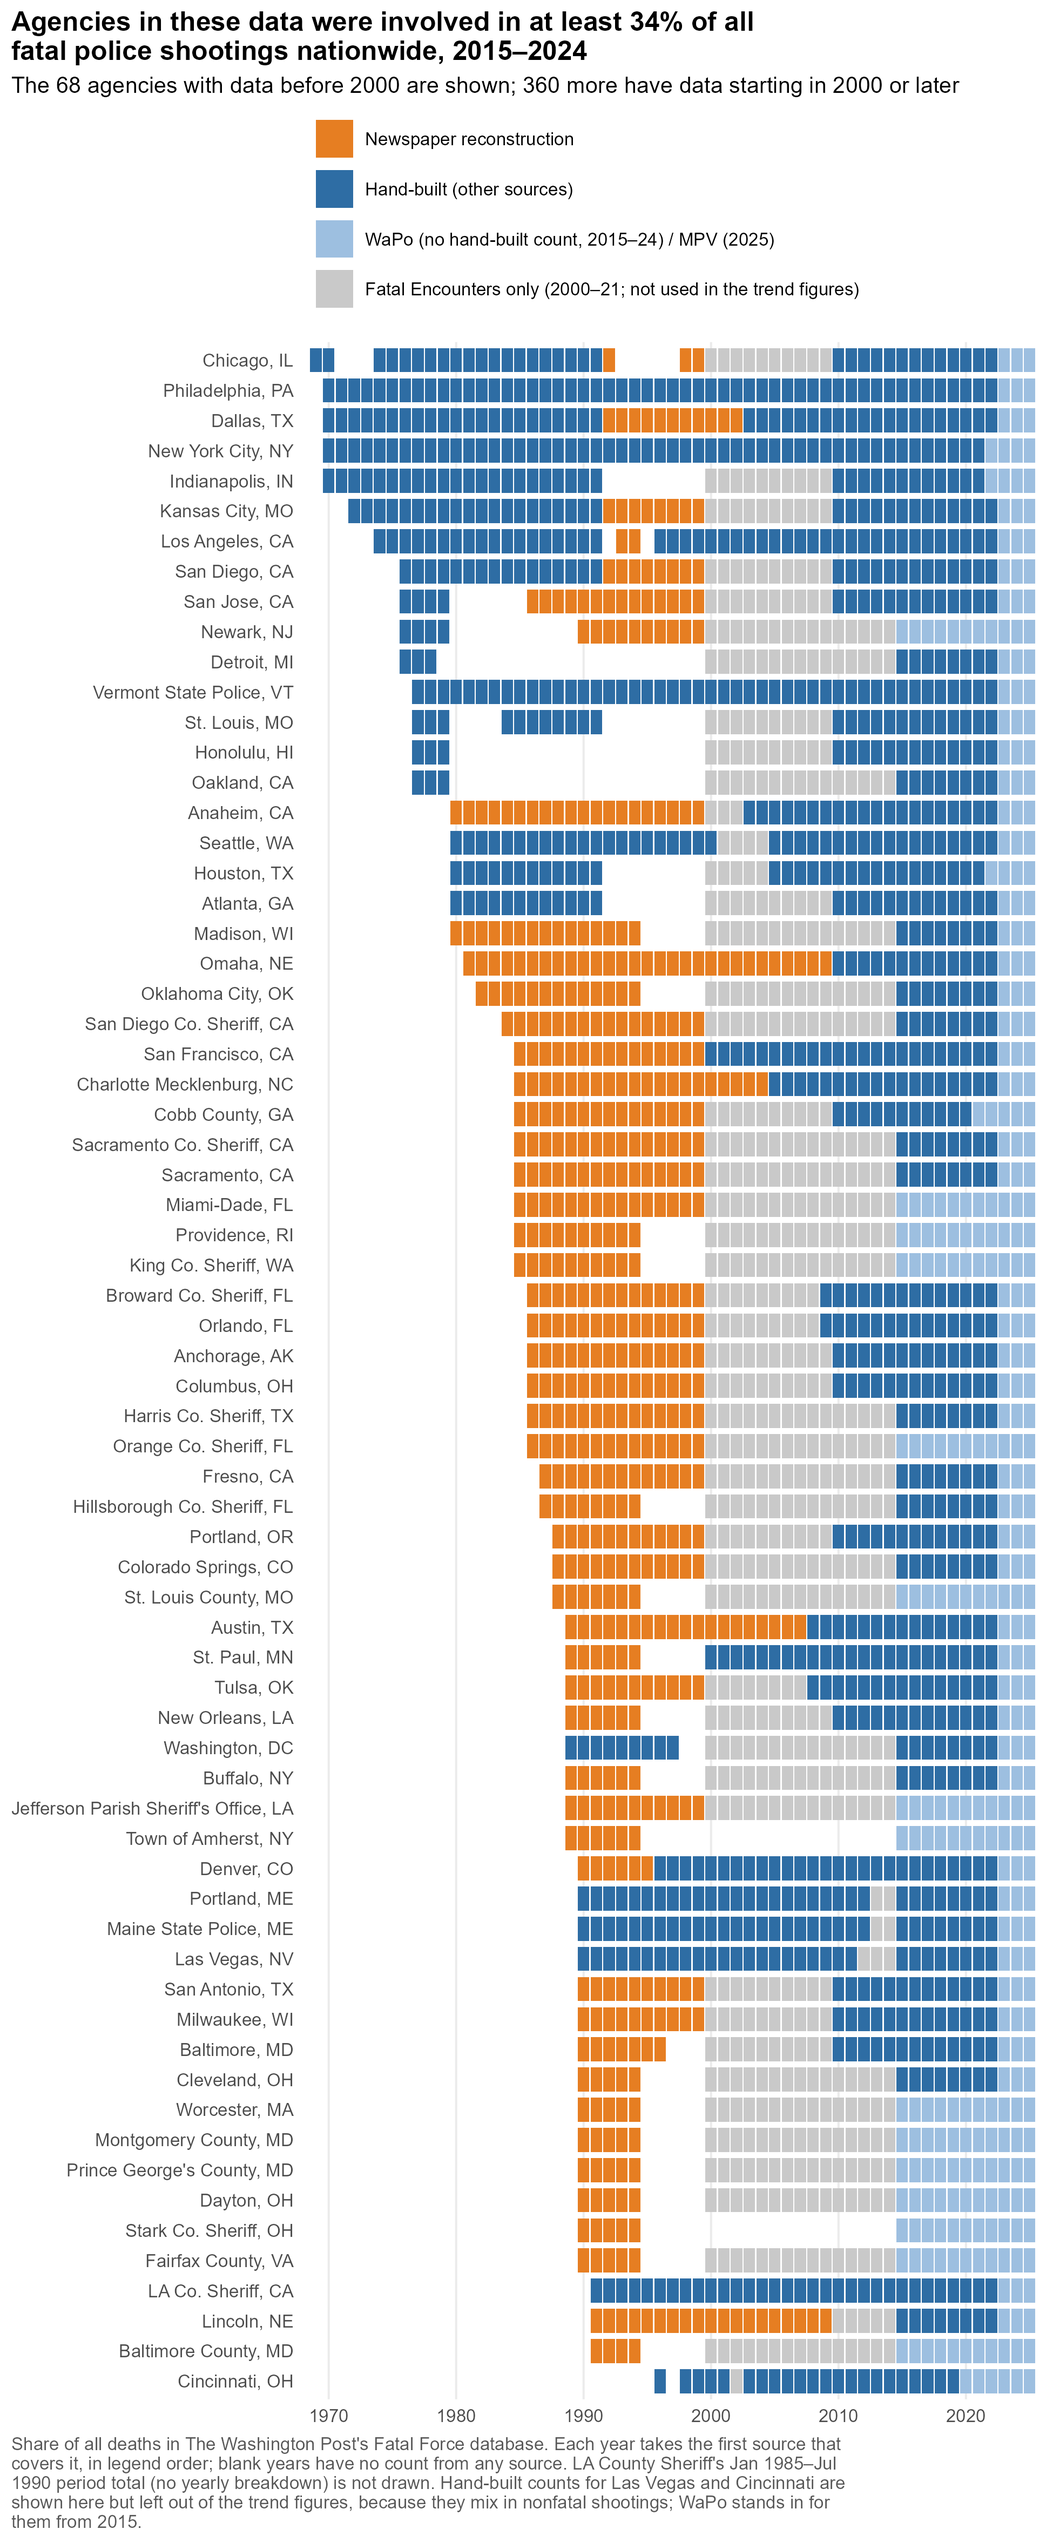
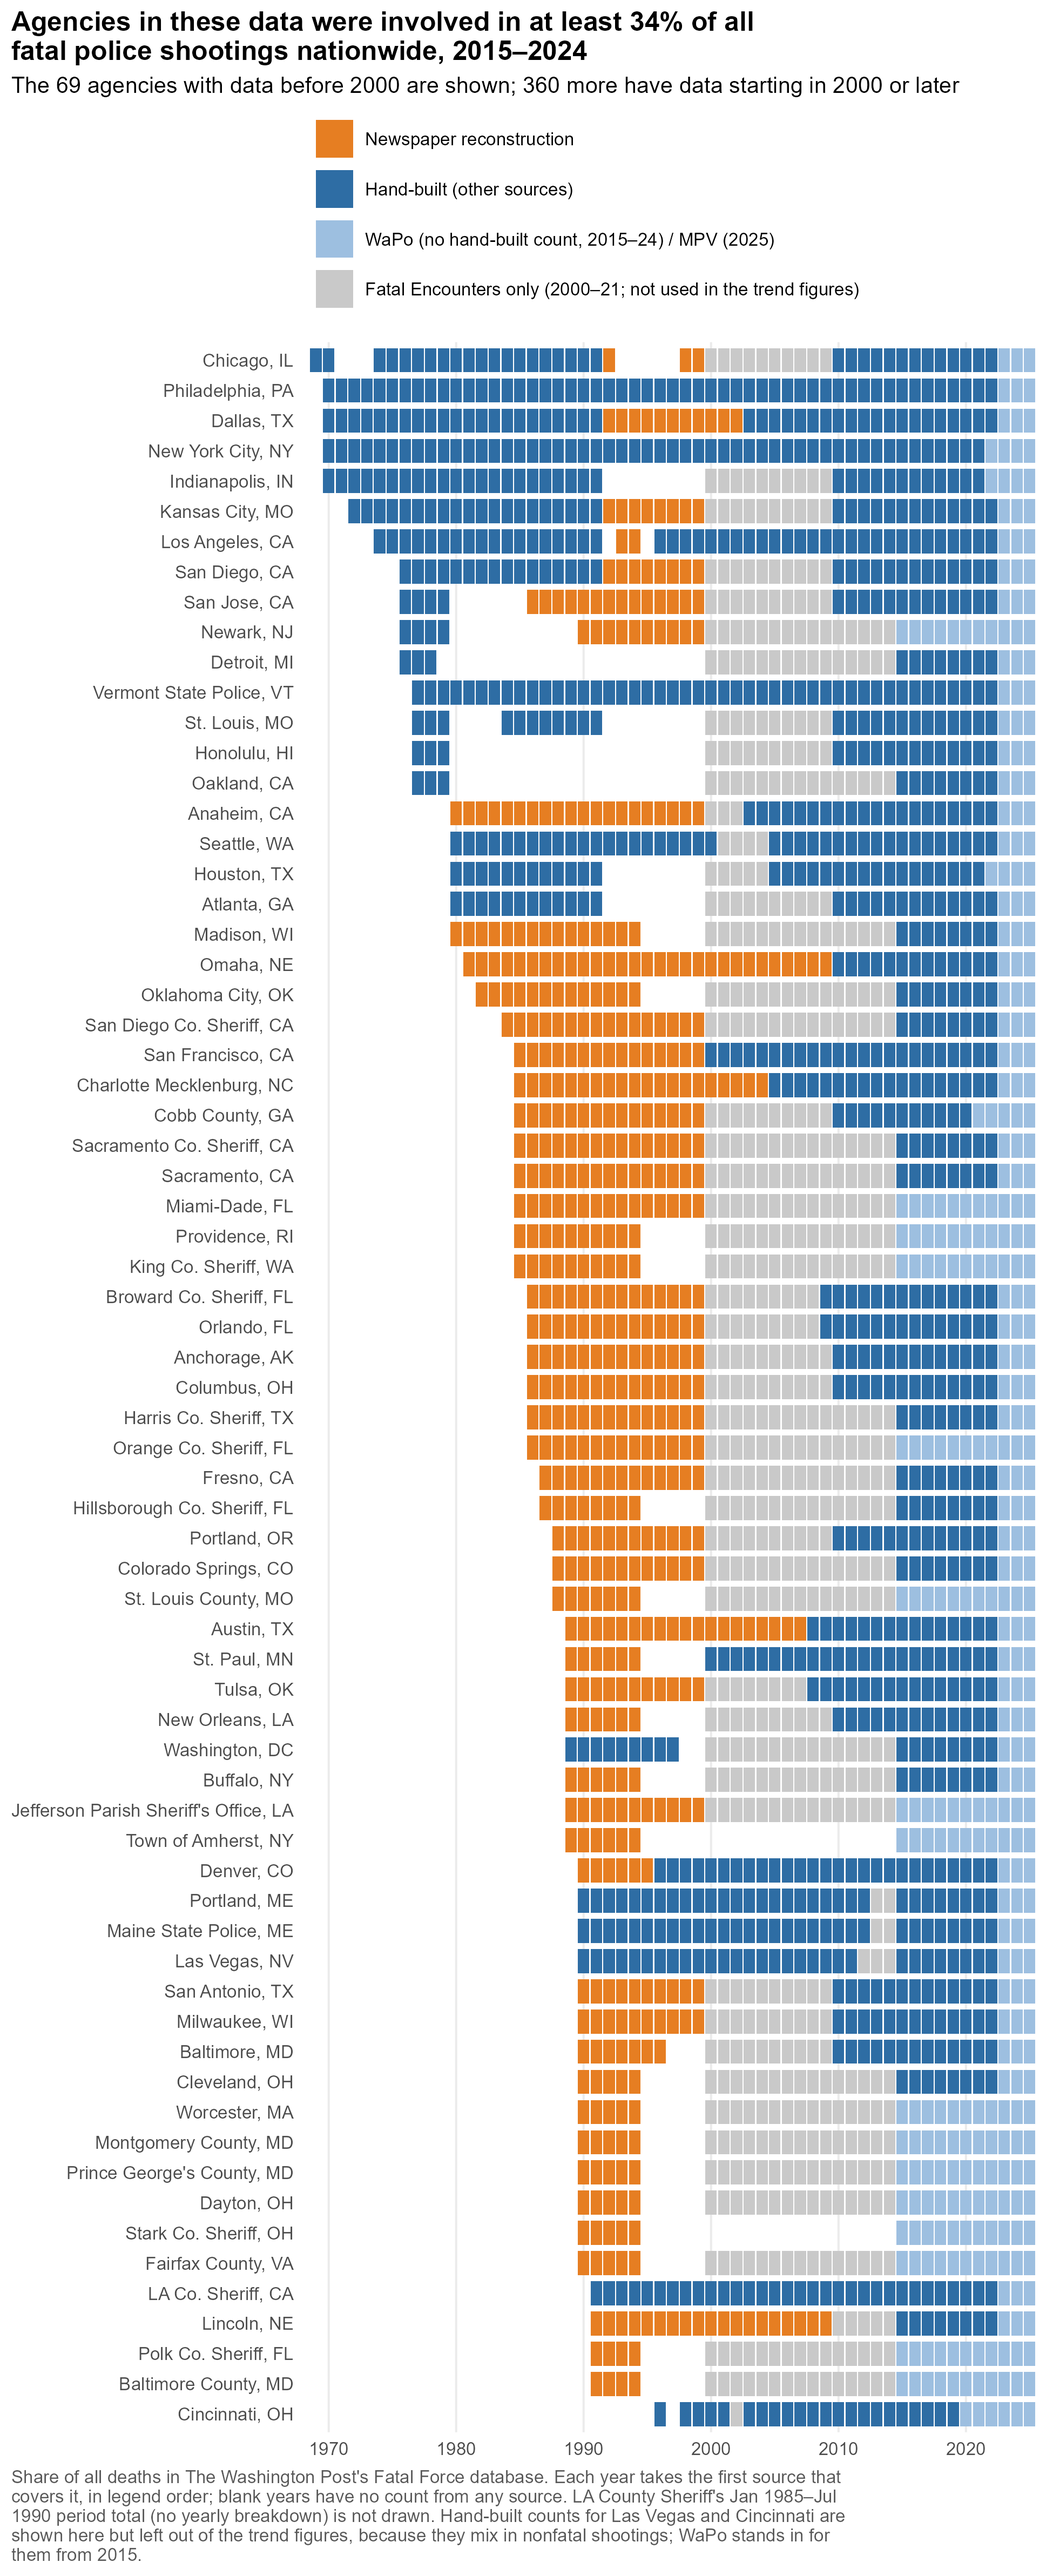
Add Polk County SO (FL) Aug 1990-94 to n_nix (Tampa Tribune reconstruction) (#68)
Sampled agency (South 100-250k). New slug polk_county_fl (FL05300).
1991-94 = 0, 2, 0, 1, plus Aug 14 - Dec 31, 1990 = 0 as a period total,
rebuilt case by case from The Tampa Tribune (in NewsBank from Aug 14,
1990; the Lakeland Ledger only from Nov 1994): Timmy Bible and Tommie
Calvin Williams (1992), and Ponciano Rabadan (1994, a deputy's sniper
shot first reported as a suicide). SHR files 0 in 1992-94 and misses all
three. Recall check 2001-06: 5 of 5 FE gunshot deaths.

No source shows a Polk deputy killing in Jan-Aug 1990, but the only
other paper (St. Petersburg Times, 3 of 3 on the later cases) is under
the 50-hit rule, so per JN the partial year stands, as for Baltimore
County: about 4.4 exposure-years before 1995, short of the main
comparison. Headline unchanged (59 agencies, 0.757).

diff --git a/README.md b/README.md
@@ -26,7 +26,7 @@ Are police killing more people now than in decades past? National data can't ans
 
 **How the trend is estimated.** The solid line comes from a Poisson model with agency fixed effects, fit to all 422 hand-built agencies. It compares each agency with itself, so agencies entering or leaving the data don't move the line. Most hand-built counts for 2015 onward were taken from WaPo in the first place (see [Background](#background)), so WaPo fills 2015–24 wherever an agency has no hand-built count; the hand-built series end in 2022. MPV on-duty counts fill 2025 for series that reach 2024. Two hand-built series are left out because they mix in nonfatal shootings, Las Vegas and Cincinnati; WaPo stands in for both from 2015.
 
-**How far back it reaches.** Before 2000, the solid line rests on only 4–61 departments, mostly large cities. It describes big cities, not the country. The [coverage figure](#coverage-figure) below shows exactly which agency-years each source covers.
+**How far back it reaches.** Before 2000, the solid line rests on only 4–62 departments, mostly large cities. It describes big cities, not the country. The [coverage figure](#coverage-figure) below shows exactly which agency-years each source covers.
 
 **What it shows.** The headline compares one fixed set of agencies: the 59 with at least five years of data both before 1995 and since 2015, shown as the dashed line. In those agencies, fatal police shootings since 2015 run 24% below their 1970–1994 level (ratio 0.76, 95% CI 0.55–1.04). Two more agencies, the Stark County (OH) Sheriff's Office and the Amherst (NY) Police Department, have enough years in both eras but no deaths in either, so they add no information to the ratio and are set aside.
 
@@ -44,7 +44,7 @@ The reconstructions are floors, because a search can miss deaths but can't inven
 
 ![Agencies with data before 2000](output/figures/coverage_tiles.png)
 
-**Reach.** The 68 agencies above carry the long-run record back before 2000. Each year shows the first source that covers it: newspaper reconstruction (orange), other hand-built sources (dark blue), WaPo or MPV where there is no hand-built count (light blue), and Fatal Encounters alone (grey; FE is not used in the trend figures). Blank years are true gaps. Overall, the hand-built agencies were involved in at least 33% of everyone shot and killed by police in WaPo's data, 2015–2024 ("at least" because deaths are matched through each WaPo agency's primary ORI, so some matches are missed).
+**Reach.** The 69 agencies above carry the long-run record back before 2000. Each year shows the first source that covers it: newspaper reconstruction (orange), other hand-built sources (dark blue), WaPo or MPV where there is no hand-built count (light blue), and Fatal Encounters alone (grey; FE is not used in the trend figures). Blank years are true gaps. Overall, the hand-built agencies were involved in at least 34% of everyone shot and killed by police in WaPo's data, 2015–2024 ("at least" because deaths are matched through each WaPo agency's primary ORI, so some matches are missed).
 
 Numbers in this section come from [`trend_summary.csv`](output/tables/trend_summary.csv), [`trend_index.csv`](output/tables/trend_index.csv), [`then_vs_now.csv`](output/tables/then_vs_now.csv), [`era_ratio_sensitivity.csv`](output/tables/era_ratio_sensitivity.csv), and [`coverage_share.csv`](output/tables/coverage_share.csv), all written by [`scripts/07_figures_trends.R`](scripts/07_figures_trends.R).
 
@@ -83,7 +83,7 @@ The four largest local departments show how the series line up, and SHR's false 
 | 1969 | 1 (Chicago) | — | — | — | — |
 | 1970s | 4–15 | — | — | — | 1,760–1,929 (1976+) |
 | 1980s | 14–42 | — | — | — | 1,695–1,960 |
-| 1990s | 40–64 | — | — | — | 1,459–1,818 |
+| 1990s | 40–65 | — | — | — | 1,459–1,818 |
 | 2000s | 114–172 | — | 2,967 | — | 1,524–1,721 |
 | 2010s | 361–369 | 3,647 (2015+) | 2,967 | 4,622 (2013+) | 1,584–1,841 |
 | 2020s | 225–368 (through 2022) | 3,647 (through 2024) | 2,967 (through 2021) | 4,622 (through 2025) | 1,864–2,098 (through 2024) |
@@ -212,6 +212,7 @@ The method, a note on every agency, and the checks against each paper's own coun
 | Providence PD (RI) | *Providence Journal* | 1985–1994 | 4 | 3 |
 | Amherst Town PD (NY) | *The Buffalo News* | 1989–1994 | 0 | 0 |
 | Buffalo PD (NY) | *The Buffalo News* | 1989–1994 | 4 | 3 |
+| Polk County SO (FL) | *The Tampa Tribune* | Aug 1990 – 1994 | 3 | 0 |
 | LA County Sheriff (period total) | *Daily News of Los Angeles* (Oct. 7, 1990 study) | Jan 1985 – Jul 1990 | 75 | 42 (1985–90) |
 
 

diff --git a/data/historical/README.md b/data/historical/README.md
@@ -71,4 +71,5 @@ The SHR column is the FBI's count of people killed by the agency's officers with
 | Providence PD (RI) | *Providence Journal* | 1985–1994 | 4 | 3 | The *Journal* is full text in NewsBank from 1982. Rebuilt case by case: Napolitano (1985), Stockwell (1993), and two in 1994, Corey Fields (killed after he shot Patrolman Steven Shaw) and Favaloro (a SWAT shootout in a joint drug sting). A 1993 *Journal* story listing that year's three fatal police shootings in Rhode Island confirms one in Providence. Matches SHR in 9 of 10 years; SHR misses Stockwell. SHR files the department as RI00409, while WaPo and this panel use RI00400, so the panel's SHR column is blank for Providence. Recall check (2000–14): all 4 Fatal Encounters gunshot deaths |
 | Amherst Town PD (NY) | *The Buffalo News* | 1989–1994 | 0 | 0 | The *Buffalo News* is in NewsBank from January 1989. No fatal shootings by Amherst officers found, though the paper reported the department's nonfatal shootings (two bank-robbery suspects wounded in 1990, a theft suspect in 1991). Leaves out a 1991 death in custody. Recall can't be measured: Fatal Encounters, WaPo, MPV and SHR list no Amherst police killings in any year, so the agency has no deaths in either era and is set aside from the ratio. The paper was checked on other agencies instead: it reported all 11 Fatal Encounters police shooting deaths in Erie County, 2003–12. SHR files 0 in 1991–94 and nothing for 1989–90 |
 | Buffalo PD (NY) | *The Buffalo News* | 1989–1994 | 4 | 3 | The *Buffalo News* is in NewsBank from January 1989. Rebuilt case by case: Brantley (shot in 1989, died in 1990; counted in the year she was shot), Strickland (1990), Mills (1991) and Johnson (1992, an accidental discharge the grand jury cleared). None found in 1993–94. SHR's 1989 count includes a killing by an off-duty officer, left out here, and SHR files 0 every year from 1991 to 2014, even when Fatal Encounters lists Buffalo deaths, so it misses Mills and Johnson. Recall check (2003–12): all 9 Fatal Encounters gunshot deaths |
+| Polk County SO (FL) | *The Tampa Tribune* | Aug 1990–1994 | 3 | 0 | The *Tribune* enters NewsBank on August 14, 1990 (the Lakeland *Ledger* only in November 1994), so August–December 1990 is a period total and Polk falls short of five years before 1995, like Baltimore County. Rebuilt case by case: Timmy Bible and Tommie Calvin Williams (1992) and Ponciano Rabadan (1994, a sniper shot first reported as a suicide). SHR files 0 in 1992–94 and misses all three. Recall check (2001–06): all 5 Fatal Encounters gunshot deaths |
 | LA County Sheriff (period total) | *Daily News of Los Angeles* | Jan 1985 – Jul 1990 | 75 | 42 (1985–90) | Not yearly counts: a 1990 *Daily News* study of all 202 on-duty deputy shootings found 75 deaths. It enters only the then-vs-now comparison, with 5.57 years of exposure. See `period_totals.csv` |
